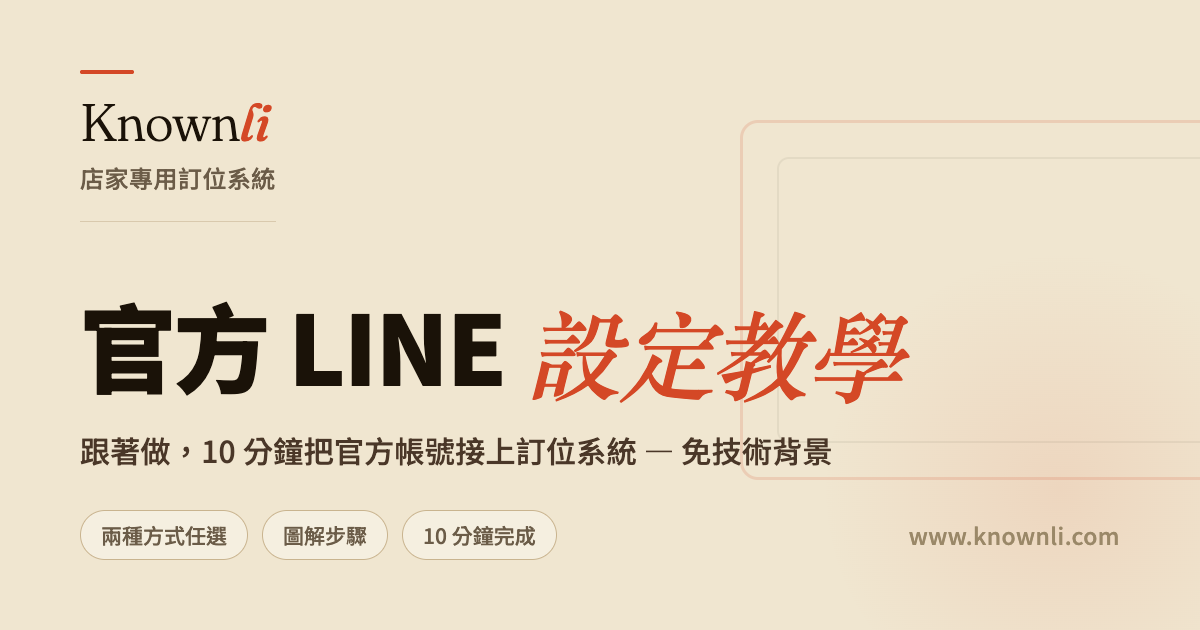
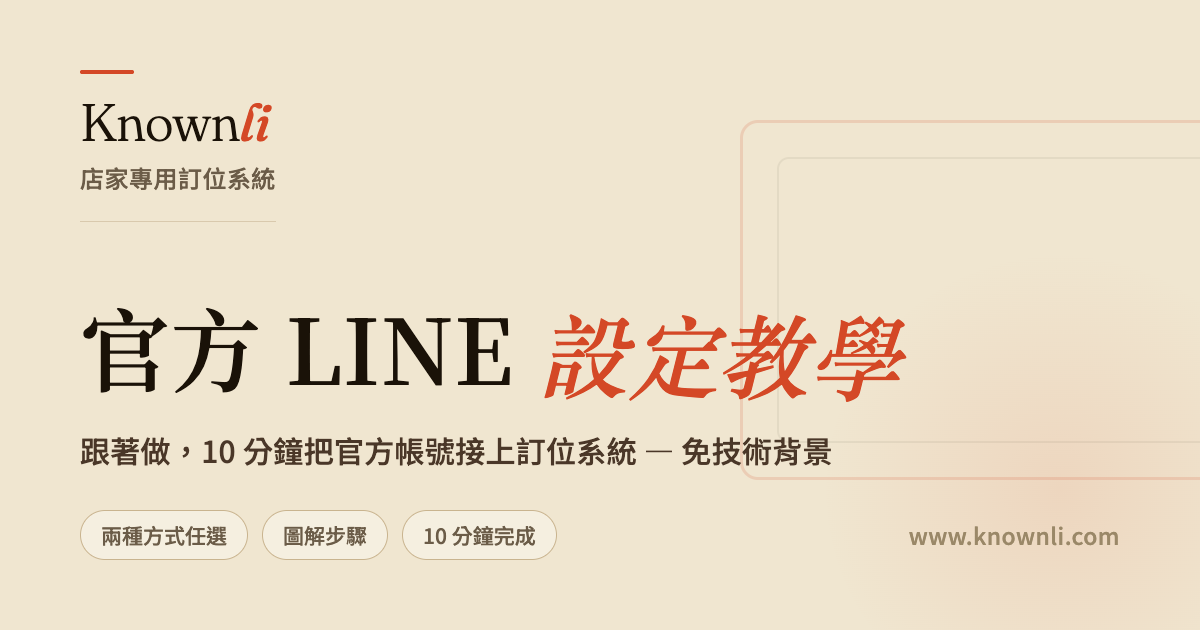
style: OG 分享卡標題改襯線中字重，更符合品牌調性
官方 LINE 由 Noto Sans 900 改 Noto Serif TC 600，去除過重黑體感

Changed region(s): [[0.0617, 0.4825, 0.7708, 0.6333]]

diff --git a/line-guide/_capture_tool/og-card.html b/line-guide/_capture_tool/og-card.html
@@ -1,0 +1,110 @@
+<!DOCTYPE html>
+<html lang="zh-TW">
+<head>
+<meta charset="UTF-8">
+<link rel="preconnect" href="https://fonts.googleapis.com">
+<link rel="preconnect" href="https://fonts.gstatic.com" crossorigin>
+<link href="https://fonts.googleapis.com/css2?family=Fraunces:ital,opsz,wght@0,9..144,300;0,9..144,600;1,9..144,450&family=Noto+Sans+TC:wght@400;500;700&family=Noto+Serif+TC:wght@500;600;700&display=swap" rel="stylesheet">
+<style>
+  * { margin:0; padding:0; box-sizing:border-box; }
+  html,body { width:1200px; height:630px; overflow:hidden; }
+  .card {
+    width:1200px; height:630px;
+    background:#f0e6d0;
+    position:relative;
+    font-family:'Noto Sans TC',sans-serif;
+    padding:70px 80px;
+    display:flex; flex-direction:column;
+    overflow:hidden;
+  }
+  /* 右側呼應教學的「紅框標注」motif，淡淡疊在背景 */
+  .motif {
+    position:absolute; right:-60px; top:120px;
+    width:520px; height:360px;
+    border:3px solid rgba(212,72,38,.16);
+    border-radius:18px;
+  }
+  .motif::before {
+    content:''; position:absolute; inset:34px;
+    border:2px solid rgba(26,18,8,.06); border-radius:12px;
+  }
+  .glow {
+    position:absolute; right:-120px; bottom:-120px;
+    width:520px; height:520px; border-radius:50%;
+    background:radial-gradient(circle, rgba(212,72,38,.10), transparent 65%);
+  }
+
+  /* ── 品牌列 ── */
+  .brand { position:relative; z-index:2; }
+  .tick { width:54px; height:4px; background:#d44826; border-radius:2px; margin-bottom:22px; }
+  .logo {
+    font-family:'Fraunces',Georgia,serif;
+    font-size:52px; line-height:1; letter-spacing:-.01em;
+  }
+  .logo .known { font-weight:300; color:#1a1208; }
+  .logo .li    { font-weight:450; font-style:italic; color:#d44826; }
+  .brand-sub {
+    margin-top:12px; padding-bottom:26px;
+    font-size:24px; font-weight:500; color:#6b5c48; letter-spacing:.02em;
+    border-bottom:1.5px solid #d9c9ad;
+    display:inline-block;
+  }
+
+  /* ── 主標 ── */
+  .headline {
+    position:relative; z-index:2;
+    margin-top:auto;
+    font-family:'Noto Serif TC',serif;
+    font-size:90px; font-weight:600; line-height:1.12;
+    color:#1a1208; letter-spacing:.01em;
+  }
+  .headline .accent {
+    font-family:'Fraunces',Georgia,serif;
+    font-style:italic; font-weight:600; color:#d44826;
+  }
+  .subline {
+    position:relative; z-index:2;
+    margin-top:24px;
+    font-size:30px; font-weight:500; color:#4a3728; letter-spacing:.01em;
+  }
+
+  /* ── 底部 pills + 網址 ── */
+  .footer {
+    position:relative; z-index:2;
+    margin-top:38px;
+    display:flex; align-items:center; justify-content:space-between;
+  }
+  .pills { display:flex; gap:14px; }
+  .pill {
+    border:1.5px solid #c9b48f; border-radius:100px;
+    padding:9px 20px; font-size:21px; font-weight:500; color:#6b5c48;
+    background:rgba(255,255,255,.35);
+  }
+  .url { font-size:23px; font-weight:500; color:#9a8868; letter-spacing:.02em; }
+</style>
+</head>
+<body>
+<div class="card">
+  <div class="motif"></div>
+  <div class="glow"></div>
+
+  <div class="brand">
+    <div class="tick"></div>
+    <div class="logo"><span class="known">Known</span><span class="li">li</span></div>
+    <div class="brand-sub">店家專用訂位系統</div>
+  </div>
+
+  <div class="headline">官方 LINE <span class="accent">設定教學</span></div>
+  <div class="subline">跟著做，10 分鐘把官方帳號接上訂位系統 — 免技術背景</div>
+
+  <div class="footer">
+    <div class="pills">
+      <div class="pill">兩種方式任選</div>
+      <div class="pill">圖解步驟</div>
+      <div class="pill">10 分鐘完成</div>
+    </div>
+    <div class="url">www.knownli.com</div>
+  </div>
+</div>
+</body>
+</html>
